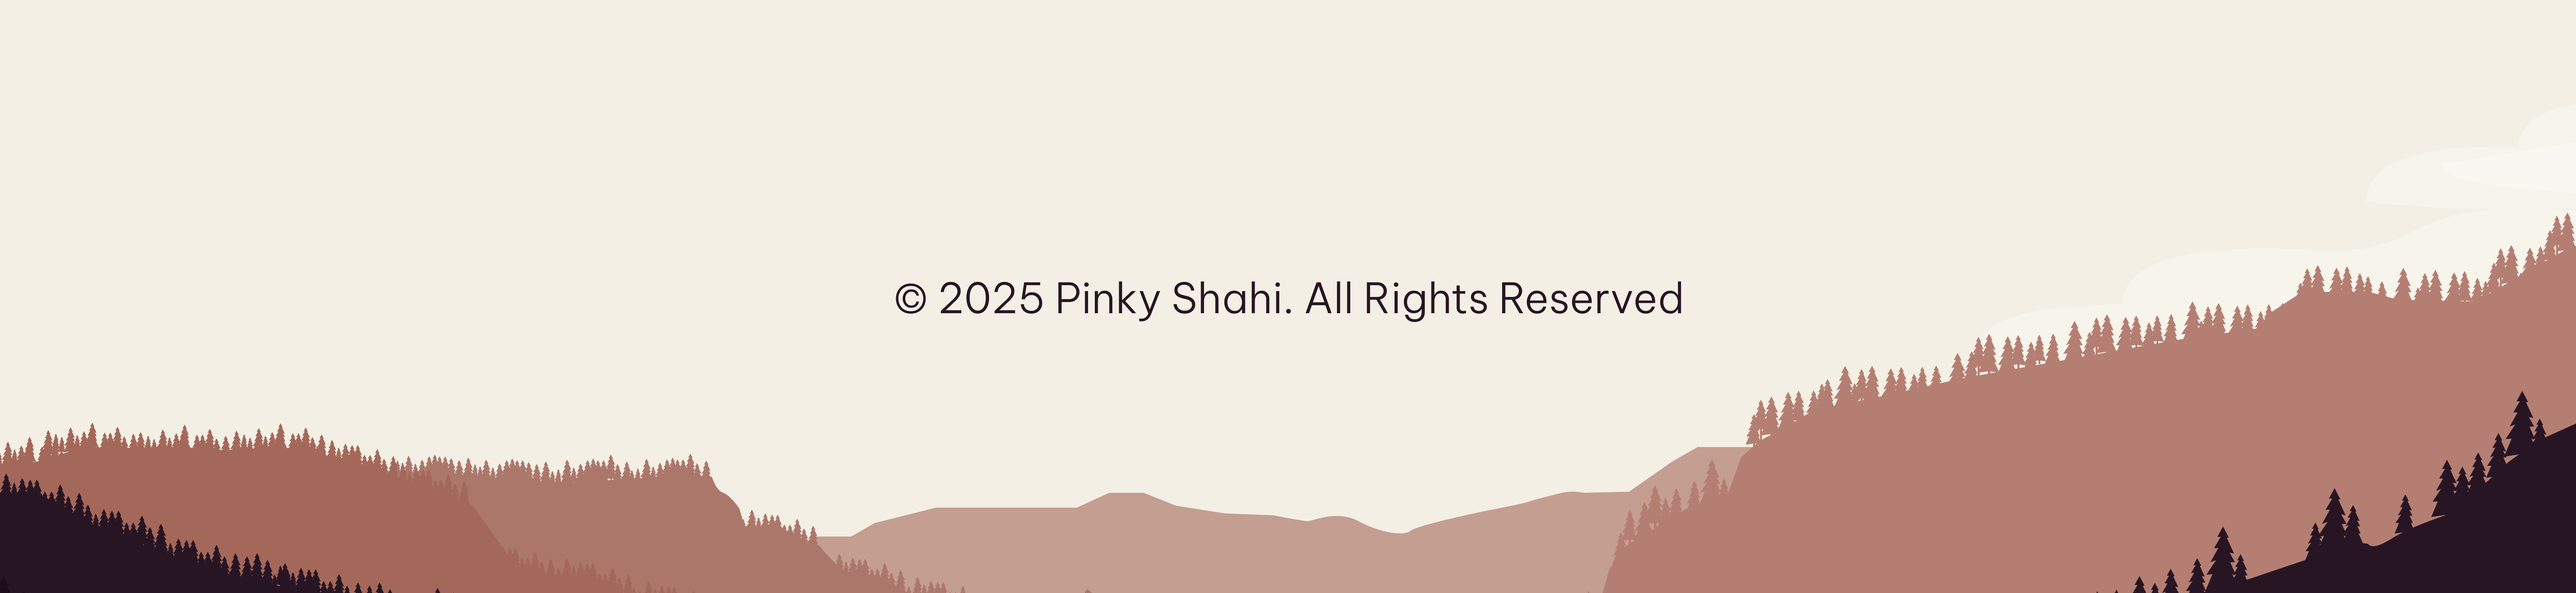
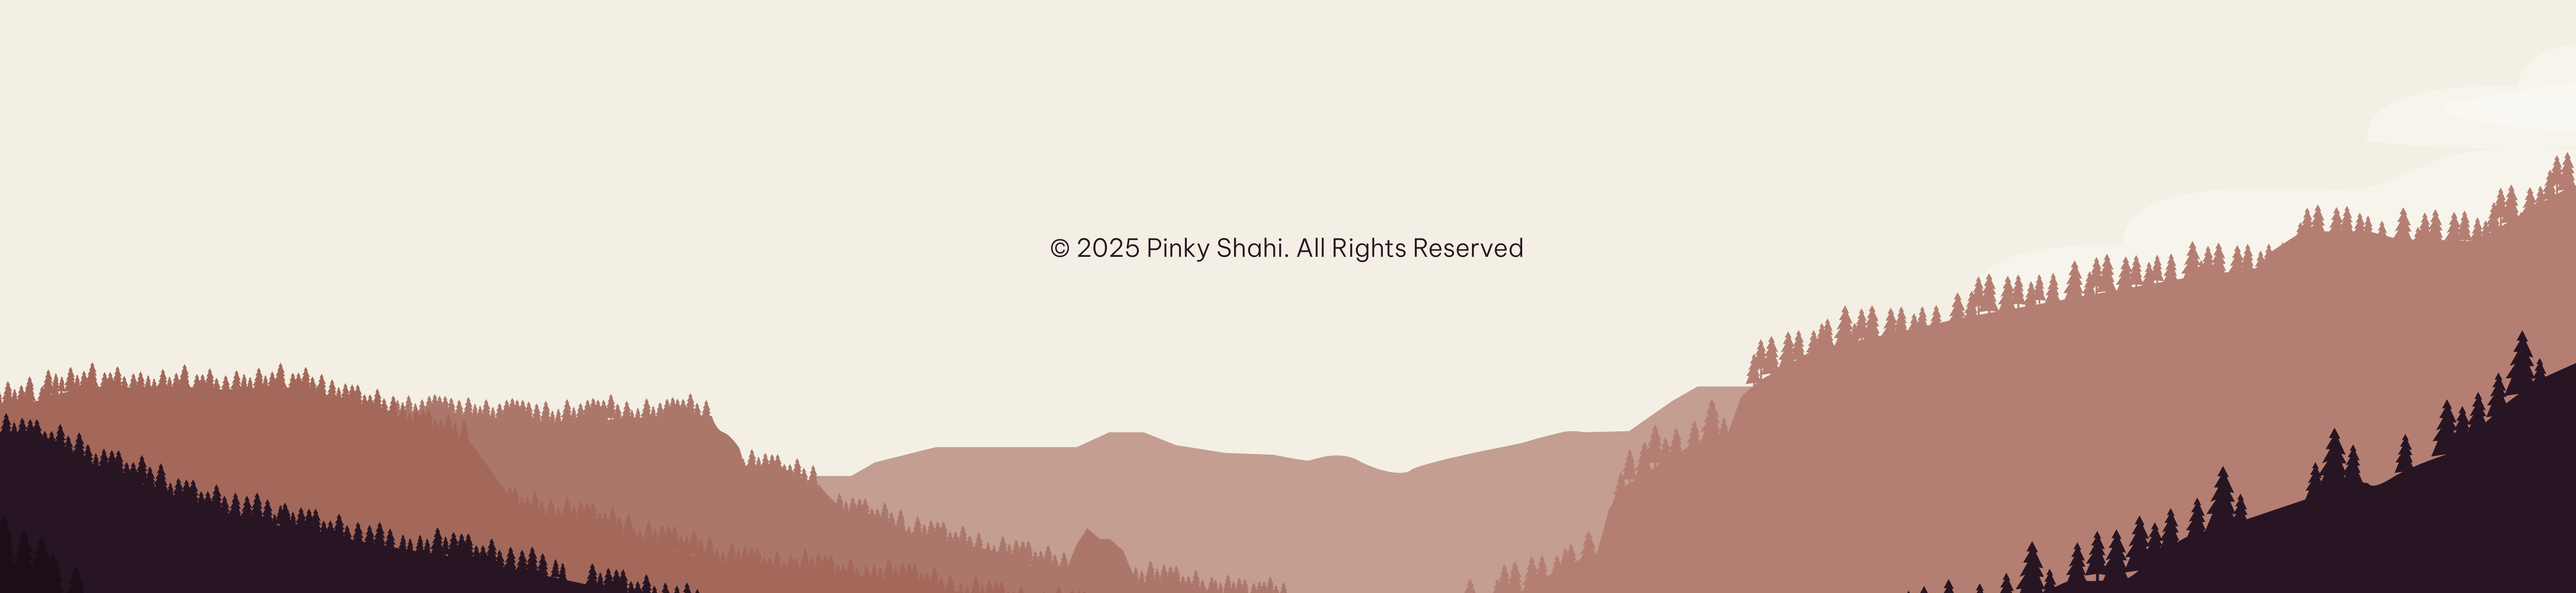
Update footer to use background image for enhanced visual appeal

diff --git a/index.html b/index.html
@@ -432,15 +432,8 @@
 		</div>
 	</section>
 
-	<footer class="ftco-footer ftco-section" style="height: 100px;">
-		<div class="container">
-			<div class="row">
-				<div class="col-md-12" style="text-align: left;">
-					<p>© 2025 All Rights Reserved</p>
-				</div>
-			</div>
-		</div>
-	</footer>
+	<footer class="ftco-footer ftco-section" style="background-image: url('images/displayPics/Footer2025.png'); background-size: cover; background-position: center; height:fit-content;"></footer>
+
 
 
 
